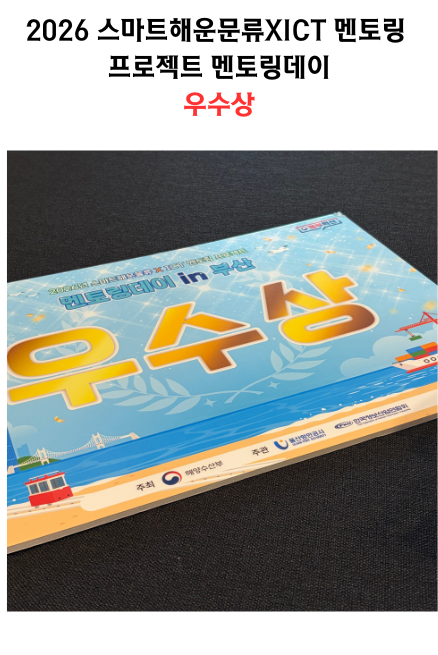
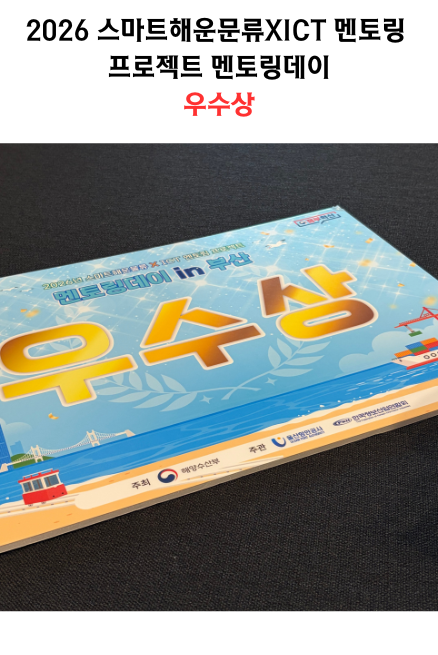
리팩토리 프로젝트 자주동 수료증 추가

diff --git a/js/projects.js b/js/projects.js
@@ -758,6 +758,7 @@ function setupButtonHandlers() {
           console.log("🎓 Opening certificate images...");
           window.openImageModal([
             "images/project/listen/refactory_listen_1.png",
+            "images/project/listen/refactory_listen_2.png",
           ]);
         } else if (action === "paper") {
           console.log("📄 Opening paper PDFs...");

diff --git a/dev-log/2026-07-31.md b/dev-log/2026-07-31.md
@@ -1,0 +1,5 @@
+
+## ✅ [결과] 13:45:30
+- **수정 파일**: `js/projects.js`
+- **변경 내용**: RE:FACTORY 프로젝트(id: 14) `certificate` 액션의 `openImageModal` 배열에 `"images/project/listen/refactory_listen_2.png"` 추가 (기존 `refactory_listen_1.png` 뒤에 이어붙임)
+- **이유**: `images/project/listen/refactory_listen_2.png` 파일은 이미지 폴더에 저장되어 있었으나 코드에서 참조되지 않아 수료증 모달에 표시되지 않던 문제를 최신화
